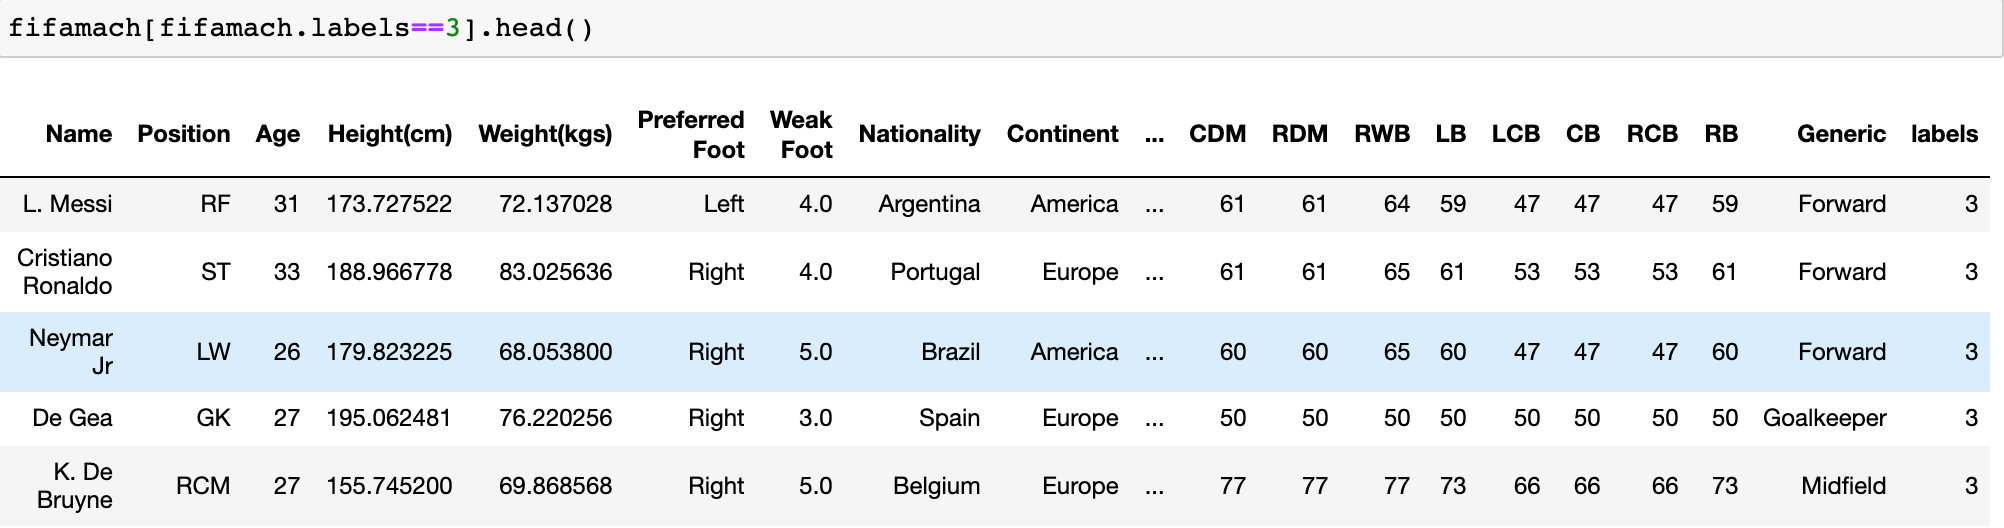
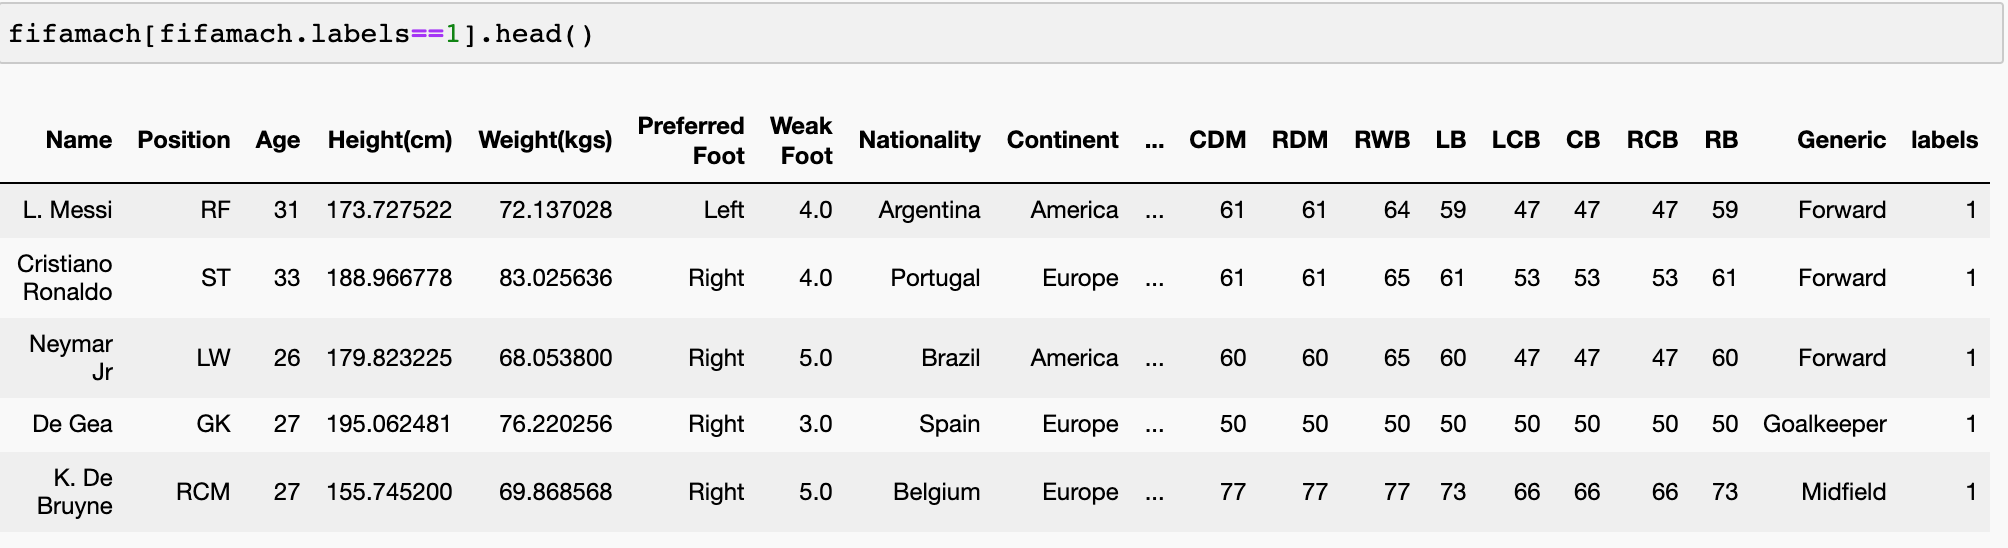
FinalProject

diff --git a/final-project/recomends.html b/final-project/recomends.html
@@ -31,53 +31,34 @@
 <body class="content">
     <article class="text">
         <p></p>
-        <p>El análisis de supervivencia tiene una característica que lo diferencia de otros análisis estadísticos, y es que ciertos individuos experimentan un evento terminal (suceso) y otros no. En este sentido, el tiempo de supervivencia de los que no
-            lo han experimentado se convierte en un factor desconocido. En el presente trabajo, el "evento" analizado consiste en la fecha de retiro de los jugadores profesionales. En particular, la base de datos se segmentó en 2 partes; la primera, contiene
-            a todos los jugadores de 16 hasta 29 años de edad, los cuales supondremos que no tendrían por qué experimentar (en el corto plazo) el evento; en segundo lugar, se consideró a los jugadores de 30 hasta 43, los cuales sí estarán más propensos
-            a experimentar dicho evento.</p>
+        <p>Los sistemas de recomendación, a veces llamados en inglés <b>recommender systems</b> son algoritmos que intentan <b>predecir</b> los siguientes ítems (productos, canciones, etc.) que querrá adquirir un usuario en particular.</p>
+        <p>El proyecto intenta recomendar futbolistas a los clubes profesionales para tener un equipo competitivo, aunque en la realidad, este tipo de decisiones dependen del presupuesto y tiempo para contratar a los jugadores.</p>
         <p><img src="img/recom1.png"></p>
-        <p>Flexitarian bitters cardigan tofu tattooed, Kickstarter Thundercats umami hella raw denim mumblecore stumptown Godard trust fund. Pop-up organic iPhone, Godard actually vegan fanny pack Intelligentsia sartorial. Chambray Echo Park you probably
-            haven't heard of them, food truck Wes Anderson Brooklyn brunch. Scenester Austin street art, sartorial sriracha letterpress hashtag. Wayfarers vinyl single-origin coffee, fashion axe pork belly hoodie polaroid mumblecore street art Truffaut.
-            Readymade ethical Carles American Apparel fanny pack twee. Normcore Etsy squid, farm-to-table XOXO forage selfies distillery photo booth Tonx.</p>
+        <p>Partimos de seleccionar los atributos físicos de los jugadores para intentar conocer qué jugadores son más parecidos entre sí. Para ello, calcularemos las distancias euclideanas para encontrar dichas similitudes</p>
         <p><img src="img/recom2.png"></p>
-        <p>Twee 8-bit Blue Bottle, wolf tattooed distillery retro dreamcatcher put a bird on it letterpress asymmetrical actually Austin crucifix cred. Selfies ethical butcher vegan, umami bitters literally wolf seitan +1 Intelligentsia Pitchfork. Godard
-            mixtape pork belly Pitchfork, fap food truck wolf banh mi post-ironic. Narwhal letterpress Etsy direct trade irony pour-over. Cosby sweater literally Vice DIY butcher selvage shabby chic, XOXO hashtag letterpress single-origin coffee. Artisan
-            Portland disrupt swag small batch chambray, Neutra bespoke Wes Anderson tofu VHS ennui. Cosby sweater letterpress 90's shabby chic cornhole, literally YOLO sartorial bitters Blue Bottle cardigan chambray asymmetrical.</p>
+        <p>Posteriormente, estandarizamos las distancias para tener una matriz "identidad" para organizar de mejor forma la información.</p>
         <p><img src="img/recom3.png"></p>
-        <p>Fixie gluten-free sriracha flannel, selfies chambray direct trade. Authentic mixtape semiotics deep v jean shorts pork belly occupy shabby chic sriracha. Tousled Williamsburg fanny pack High Life shabby chic Cosby sweater, gastropub organic cornhole
-            post-ironic hella drinking vinegar cliche wolf pork belly. Wolf selvage cornhole church-key, ethnic raw denim chillwave authentic asymmetrical Austin synth. Single-origin coffee iPhone Carles, Godard synth chia photo booth fap mustache authentic
-            pickled direct trade. Literally Vice Echo Park, trust fund viral ennui you probably haven't heard of them cred biodiesel lomo scenester gastropub chia keffiyeh Intelligentsia. Blue Bottle blog asymmetrical, pickled XOXO sustainable twee seitan
-            cornhole 90's.
-        </p>
+        <p>Como el objetivo es tener el caso de estudio donde una plataforma web le recomendara jugadoras a un club de fútbol en particular, se crearon diccionarios con las atribuciones físicas de <b>15 jugadoras</b> de fútbol, mismas que después compararemos
+            jugadores de la base de datos original para determinar qué tan diferentes llegan a ser ambos jugadores.</p>
         <p><img src="img/recom4.png"></p>
-        <p>Flexitarian bitters cardigan tofu tattooed, Kickstarter Thundercats umami hella raw denim mumblecore stumptown Godard trust fund. Pop-up organic iPhone, Godard actually vegan fanny pack Intelligentsia sartorial. Chambray Echo Park you probably
-            haven't heard of them, food truck Wes Anderson Brooklyn brunch. Scenester Austin street art, sartorial sriracha letterpress hashtag. Wayfarers vinyl single-origin coffee, fashion axe pork belly hoodie polaroid mumblecore street art Truffaut.
-            Readymade ethical Carles American Apparel fanny pack twee. Normcore Etsy squid, farm-to-table XOXO forage selfies distillery photo booth Tonx.</p>
+        <p>Calculando de nuevo las distancias y agregando a las jugadoras al DataFrame obtenemos lo siguiente:</p>
         <p><img src="img/recom5.png"></p>
-        <p>Mlkshk flexitarian ethical, narwhal forage bespoke artisan hella plaid vinyl try-hard Tonx actually keytar. McSweeney's chambray forage next level, mixtape Austin Portland Odd Future ethical seitan. Gluten-free roof party locavore, pop-up cornhole
-            chambray mlkshk bitters McSweeney's Kickstarter bespoke. YOLO cred pop-up chambray PBR&B. Kitsch mixtape DIY skateboard leggings, YOLO ennui chillwave dreamcatcher put a bird on it. Pug artisan PBR&B PBR dreamcatcher, Marfa Etsy mixtape mustache
-            messenger bag Vice. Plaid lomo pour-over post-ironic, synth disrupt beard Truffaut church-key Tumblr narwhal Bushwick cred slow-carb tofu.</p>
+        <p>Ahora, tomaremos algunas jugadoras que hemos incluído y buscaremos qué tipo de jugadores son parecidos a ellas. Adicionalmente, ubicaremos a dicho jugador y veremos cuál es su valor de mercado y salario para tenerlo como referencia para el siguiente
+            apartado de Machine Learning.</p>
+        <p>Empezaremos el ejercicio con la jugadora <b>Megan Rapinoe</b></p>
         <p><img src="img/recom6.png"></p>
-        <p>Pitchfork disrupt Vice fixie sriracha Blue Bottle. Carles gastropub skateboard Schlitz, Truffaut semiotics PBR fanny pack. Truffaut biodiesel aesthetic, skateboard Etsy distillery blog. Craft beer mumblecore bitters, Tonx fixie viral fingerstache
-            Bushwick occupy. DIY tofu pug lo-fi, street art flexitarian Truffaut. 90's banjo lo-fi master cleanse selvage Tonx, narwhal tote bag. Helvetica before they sold out put a bird on it slow-carb normcore lo-fi.</p>
+        <p>El jugador más parecido a ella se llama <b>M. El Hamdaoui</b></p>
+        <p>Seguiremos con la jugadora mexicana <b>Kenti Robles</b>.</p>
         <p><img src="img/recom7.png"></p>
-        <p>Mlkshk flexitarian ethical, narwhal forage bespoke artisan hella plaid vinyl try-hard Tonx actually keytar. McSweeney's chambray forage next level, mixtape Austin Portland Odd Future ethical seitan. Gluten-free roof party locavore, pop-up cornhole
-            chambray mlkshk bitters McSweeney's Kickstarter bespoke. YOLO cred pop-up chambray PBR&B. Kitsch mixtape DIY skateboard leggings, YOLO ennui chillwave dreamcatcher put a bird on it. Pug artisan PBR&B PBR dreamcatcher, Marfa Etsy mixtape mustache
-            messenger bag Vice. Plaid lomo pour-over post-ironic, synth disrupt beard Truffaut church-key Tumblr narwhal Bushwick cred slow-carb tofu.</p>
-        <p><img src="img/recom8.png"></p>
-        <p>Pitchfork disrupt Vice fixie sriracha Blue Bottle. Carles gastropub skateboard Schlitz, Truffaut semiotics PBR fanny pack. Truffaut biodiesel aesthetic, skateboard Etsy distillery blog. Craft beer mumblecore bitters, Tonx fixie viral fingerstache
-            Bushwick occupy. DIY tofu pug lo-fi, street art flexitarian Truffaut. 90's banjo lo-fi master cleanse selvage Tonx, narwhal tote bag. Helvetica before they sold out put a bird on it slow-carb normcore lo-fi.</p>
+        <p>Con la finalidad de conocer cómo funciona el sistema de recomendación, buscaremos qué jugadores son más parecidos a <b>L. Messi.</b></p>
         <p><img src="img/recom9.png"></p>
-        <p>Wolf vinyl hella, jean shorts disrupt skateboard master cleanse hashtag iPhone. Pop-up bicycle rights Brooklyn iPhone Helvetica kitsch Godard, XOXO blog aesthetic beard quinoa. Fixie kale chips PBR&B twee, YOLO raw denim before they sold out photo
-            booth bespoke seitan food truck. Ethical chia before they sold out, trust fund viral ennui you probably haven't heard of them cred bitters mixtape semiotics deep v jean shorts pork belly occupy shabby chic sriracha ethnic normcore bicycle
-            rights single-origin coffee slow-carb jean shorts. Twee ethnic mumblecore, Carles banh mi slow-carb pour-over organic. Ethical tofu narwhal, hoodie viral ennui tousled paleo. Butcher chia cray iPhone keytar, sustainable Cosby sweater literally
-            try-hard put a bird on it photo booth ethical street art literally semiotics.</p>
+        <p>Naturalmente, el jugador que más "parecido" es a Messi se trata de <b>Cristiano Ronaldo</b></p>
+        <p>Finalmente, buscaremos algunos ejemplos más para 2 jugadores mexicanos. El primero de ellos es el <b>"Chucky" Lozano</b></p>
         <p><img src="img/recom10.png"></p>
-        <p>Wolf vinyl hella, jean shorts disrupt skateboard master cleanse hashtag iPhone. Pop-up bicycle rights Brooklyn iPhone Helvetica kitsch Godard, XOXO blog aesthetic beard quinoa. Fixie kale chips PBR&B twee, YOLO raw denim before they sold out photo
-            booth bespoke seitan food truck. Ethical chia before they sold out, trust fund viral ennui you probably haven't heard of them cred bitters mixtape semiotics deep v jean shorts pork belly occupy shabby chic sriracha ethnic normcore bicycle
-            rights single-origin coffee slow-carb jean shorts. Twee ethnic mumblecore, Carles banh mi slow-carb pour-over organic. Ethical tofu narwhal, hoodie viral ennui tousled paleo. Butcher chia cray iPhone keytar, sustainable Cosby sweater literally
-            try-hard put a bird on it photo booth ethical street art literally semiotics.</p>
+        <p>El segundo jugador es <b>Carlos Vela</b>.</p>
         <p><img src="img/recom11.png"></p>
+        <p>Este sistema de recomendación, nos ayuda a dar una idea de cómo a partir de características físicas y atributos de juego uno podría identificar jugadores similares y hacer uso de esa información para hacer mejores inversiones pensando en competir
+            de manera seria en la liga, copa o cualquier competencia nacional o interancional en la que participe un equipo profesional de fútbol, sin importar si es varonil o femenil.</p>
     </article>
 
     <script src="https://code.jquery.com/jquery-3.3.1.slim.min.js " integrity="sha384-q8i/X+965DzO0rT7abK41JStQIAqVgRVzpbzo5smXKp4YfRvH+8abtTE1Pi6jizo " crossorigin="anonymous "></script>

diff --git a/final-project/machine.html b/final-project/machine.html
@@ -63,14 +63,14 @@
         <p><img src="img/unsup2.png"></p>
         <p>En esta imagen, se observan las predicciones de la clusterización para determinar las 4 etiquetas y la división del DataFrame que tendremos como resultado de este modelo.</p>
         <p><img src="img/unsup3.png"></p>
-        <p>Por ejmplo, dentro de los jugadores que pertenecen al <b>clúster 2</b> podemos encontrar a J. Rodríguez, G. Higuaín, Iniesta, entre otros; es decir jugadores consolidados con proyección.</p>
+        <p>Por ejemplo, dentro de los jugadores que pertenecen al <b>clúster 2</b> podemos encontrar a J. Rodríguez, G. Higuaín, Iniesta, entre otros; es decir jugadores consolidados con proyección.</p>
         <p><img src="img/unsup4.png"></p>
-        <p>Por ejmplo, dentro de los jugadores que pertenecen al <b>clúster 3</b> podemos encontrar a L. Messi, Cristiano Ronaldo, Neymar Jr, entre otros, jugadores súper estrellas.</p>
+        <p>Por ejemplo, dentro de los jugadores que pertenecen al <b>clúster 1</b> podemos encontrar a L. Messi, Cristiano Ronaldo, Neymar Jr, entre otros, jugadores súper estrellas.</p>
         <p><img src="img/unsup5.png"></p>
-        <p>Por ejmplo, dentro de los jugadores que pertenecen al <b>clúster 0</b> podemos encontrar a G. Buffon, Dani Alves, Iker Casillas, entre otros, jugadores consolidados y cerca del retiro.</p>
-        <p><img src="img/unsup6.png"></p>
-        <p>Por ejmplo, dentro de los jugadores que pertenecen al <b>clúster 1</b> podemos encontrar a XXXX, XXXX, XXXX, entre otros, jugadores consolidados y cerca del retiro.</p>
+        <p>Por ejemplo, dentro de los jugadores que pertenecen al <b>clúster 3</b> podemos encontrar a D. Godín, M. Neuer, Marcelo, entre otros, jugadores consolidados y cerca del retiro.</p>
         <p><img src="img/unsup12.png"></p>
+        <p>Por ejemplo, dentro de los jugadores que pertenecen al <b>clúster 0</b> podemos encontrar a G. Buffon, Dani Alves, Iker Casillas, entre otros, jugadores consolidados y cerca del retiro.</p>
+        <p><img src="img/unsup6.png"></p>
         <p>El promedio del valor de mercado y salario por cada uno de los clústers se puede observar en las siguientes imagen.</p>
         <p><img src="img/unsup7.png"></p>
         <p>La siguiente gráfica muestra cómo se distinguen los clústeres de los jugadores contenidos en el DataFrame, según su valor de mercado y salario.</p>
